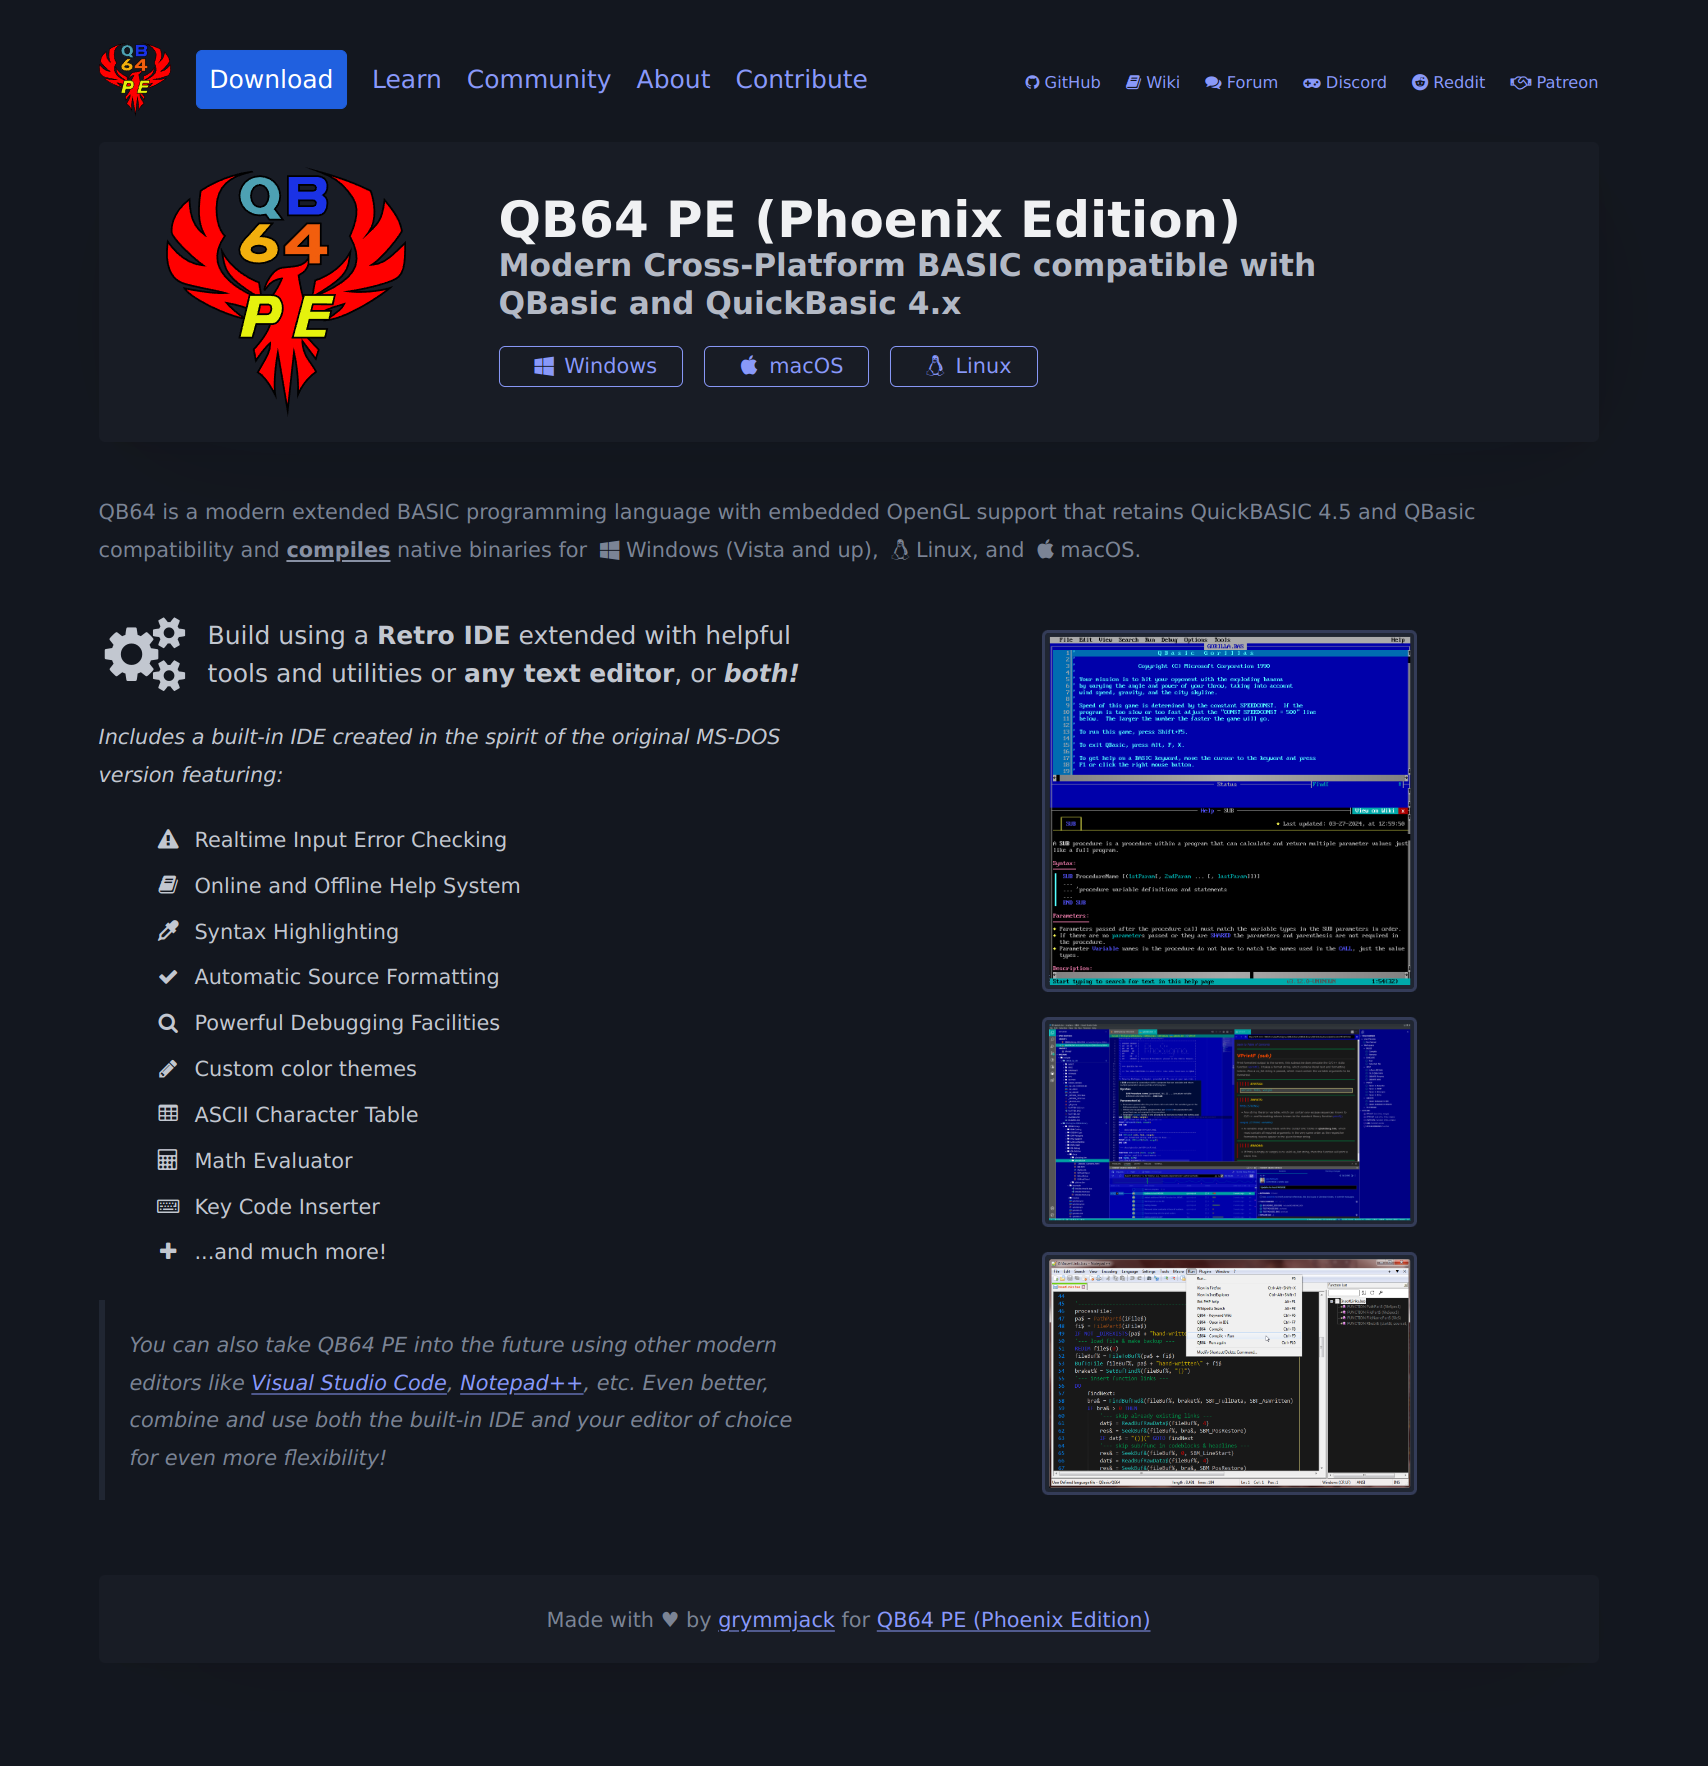
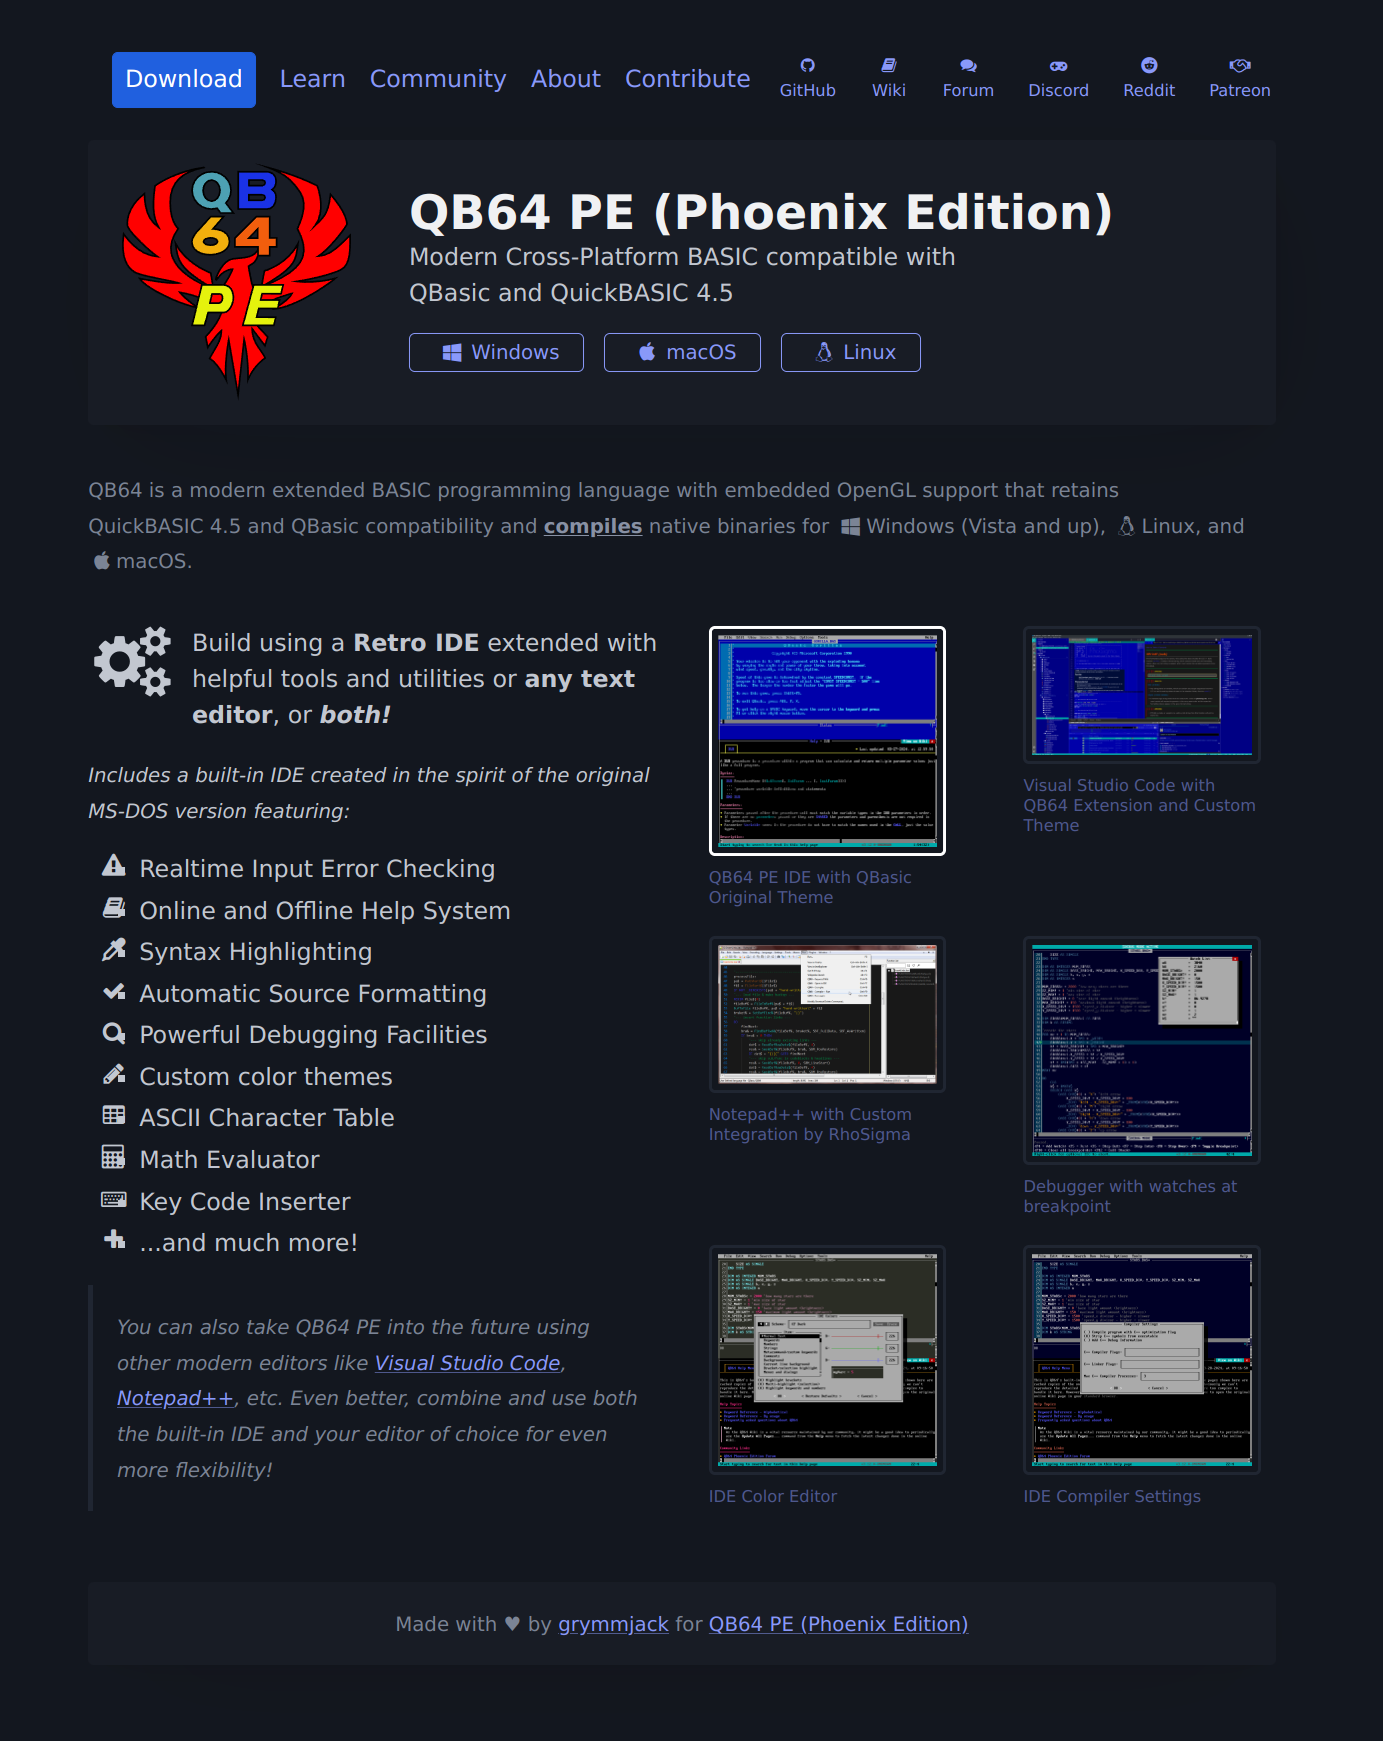
Refined and leveraged Pico CSS more - added more screenshots

diff --git a/index.html b/index.html
@@ -28,12 +28,12 @@
                     <li><a href="#">Contribute</a></li>
                 </ul>
                 <ul class="social">
-                    <li><a href="https://github.com/QB64-Phoenix-Edition/QB64pe" class="social-icon"><i class="fa fa-github" aria-hidden="true" title="GitHub"></i><span> GitHub</span></a></li>
-                    <li><a href="https://qb64phoenix.com/qb64wiki" class="social-icon"><i class="fa fa-book" aria-hidden="true" title="Wiki"></i><span> Wiki</span></a></li>
-                    <li><a href="https://qb64phoenix.com" class="social-icon"><i class="fa fa-comments" aria-hidden="true" title="Forum"></i><span> Forum</span></a></li>
-                    <li><a href="https://discord.gg/RxwYKeRA" class="social-icon"><i class="fa fa-gamepad" aria-hidden="true" title="Discord"></i><span> Discord</span></a></li>
-                    <li><a href="https://www.reddit.com/r/QB64pe/" class="social-icon"><i class="fa fa-reddit" aria-hidden="true" title="Reddit"></i><span> Reddit</span></a></li>
-                    <li><a href="https://www.patreon.com/user?u=86544769" class="social-icon"><i class="fa fa-handshake-o" aria-hidden="true" title="Patreon"></i><span> Patreon</span></a></li>
+                    <li><a href="https://github.com/QB64-Phoenix-Edition/QB64pe" class="social-icon"><i class="fa fa-github fa-fw" aria-hidden="true" title="GitHub"></i><span> GitHub</span></a></li>
+                    <li><a href="https://qb64phoenix.com/qb64wiki" class="social-icon"><i class="fa fa-book fa-fw" aria-hidden="true" title="Wiki"></i><span> Wiki</span></a></li>
+                    <li><a href="https://qb64phoenix.com" class="social-icon"><i class="fa fa-comments fa-fw" aria-hidden="true" title="Forum"></i><span> Forum</span></a></li>
+                    <li><a href="https://discord.gg/RxwYKeRA" class="social-icon"><i class="fa fa-gamepad fa-fw" aria-hidden="true" title="Discord"></i><span> Discord</span></a></li>
+                    <li><a href="https://www.reddit.com/r/QB64pe/" class="social-icon"><i class="fa fa-reddit fa-fw" aria-hidden="true" title="Reddit"></i><span> Reddit</span></a></li>
+                    <li><a href="https://www.patreon.com/user?u=86544769" class="social-icon"><i class="fa fa-handshake-o fa-fw" aria-hidden="true" title="Patreon"></i><span> Patreon</span></a></li>
                 </ul>
             </nav>
         </header>
@@ -46,10 +46,10 @@
                 <div class="col-sm-9">
                     <hgroup>
                         <h1>QB64 PE<br class="hide-mobile"> <span class="group">(Phoenix Edition)</span></h1>
-                        <h4>
+                        <p>
                             Modern Cross-Platform BASIC
-                            compatible with <span class="group">QBasic and QuickBasic 4.x</span>
-                        </h4>
+                            compatible with <span class="group">QBasic and QuickBASIC 4.5</span>
+                        </p>
                         <p class="small-vspace">
                             <a href="https://github.com/QB64-Phoenix-Edition/QB64pe/releases"><button class="outline small"><i class="fa fa-windows fa-fw" aria-hidden="true"></i> Windows</button></a>
                             <a href="https://github.com/QB64-Phoenix-Edition/QB64pe/releases"><button class="outline small"><i class="fa fa-apple fa-fw" aria-hidden="true"></i> macOS</button></a>
@@ -87,17 +87,17 @@
                         </em>
                     </small>
                 </p>
-                <ul class="icon-bullets">
-                    <li><i class="fa fa-exclamation-triangle fa-fw" aria-hidden="true"></i> Realtime Input Error Checking</li>
-                    <li><i class="fa fa-book fa-fw" aria-hidden="true"></i> Online and Offline Help System</li>
-                    <li><i class="fa fa-eyedropper fa-fw" aria-hidden="true"></i> Syntax Highlighting</li>
-                    <li><i class="fa fa-check fa-fw" aria-hidden="true"></i> Automatic Source Formatting</li>
-                    <li><i class="fa fa-search fa-fw" aria-hidden="true"></i> Powerful Debugging Facilities</li>
-                    <li><i class="fa fa-pencil fa-fw" aria-hidden="true"></i> Custom color themes</li>
-                    <li><i class="fa fa-table fa-fw" aria-hidden="true"></i> ASCII Character Table</li>
-                    <li><i class="fa fa-calculator fa-fw" aria-hidden="true"></i> Math Evaluator</li>
-                    <li><i class="fa fa-keyboard-o fa-fw" aria-hidden="true"></i> Key Code Inserter</li>
-                    <li><i class="fa fa-plus fa-fw" aria-hidden="true"></i> ...and much more!</li>
+                <ul class="fa-ul">
+                    <li><i class="fa fa-li fa-exclamation-triangle fa-fw" aria-hidden="true"></i> Realtime Input Error Checking</li>
+                    <li><i class="fa fa-li fa-book fa-fw" aria-hidden="true"></i> Online and Offline Help System</li>
+                    <li><i class="fa fa-li fa-eyedropper fa-fw" aria-hidden="true"></i> Syntax Highlighting</li>
+                    <li><i class="fa fa-li fa-check fa-fw" aria-hidden="true"></i> Automatic Source Formatting</li>
+                    <li><i class="fa fa-li fa-search fa-fw" aria-hidden="true"></i> Powerful Debugging Facilities</li>
+                    <li><i class="fa fa-li fa-pencil fa-fw" aria-hidden="true"></i> Custom color themes</li>
+                    <li><i class="fa fa-li fa-table fa-fw" aria-hidden="true"></i> ASCII Character Table</li>
+                    <li><i class="fa fa-li fa-calculator fa-fw" aria-hidden="true"></i> Math Evaluator</li>
+                    <li><i class="fa fa-li fa-keyboard-o fa-fw" aria-hidden="true"></i> Key Code Inserter</li>
+                    <li><i class="fa fa-li fa-plus fa-fw" aria-hidden="true"></i> ...and much more!</li>
                 </ul>
                 <blockquote class="clean">
                     <small>
@@ -110,10 +110,31 @@
                     </small>
                 </blockquote>
             </div>
-            <div class="screenshots">
-                <a href="images/screenshot-ide.png"><img alt="QB64 PE IDE" src="images/screenshot-ide.png"></a>
-                <a href="images/screenshot-vscode.png"><img alt="Visual Studio Code with QB64 Extension" src="images/screenshot-vscode.png"></a>
-                <a href="images/screenshot-notepad++.png"><img alt="Notepad++ with Customization by RhoSigma" src="images/screenshot-notepad++.png"></a>
+            <div id="screenshots" class="row around-xs center">
+                <figure>
+                    <a href="images/screenshot-ide.png"><img alt="QB64 PE IDE" src="images/screenshot-ide.png"></a>
+                    <figcaption>QB64 PE IDE with QBasic Original Theme</figcaption>
+                </figure>
+                <figure>
+                    <a href="images/screenshot-vscode.png"><img alt="Visual Studio Code with QB64 Extension" src="images/screenshot-vscode.png"></a>
+                    <figcaption>Visual Studio Code with QB64 Extension and Custom Theme</figcaption>
+                </figure>
+                <figure>
+                    <a href="images/screenshot-notepad++.png"><img alt="Notepad++ with Customization by RhoSigma" src="images/screenshot-notepad++.png"></a>
+                    <figcaption>Notepad++ with Custom Integration by RhoSigma</figcaption>
+                </figure>
+                <figure>
+                    <a href="images/screenshot-ide-debugger.png"><img alt="Debugger with watches at breakpoint" src="images/screenshot-ide-debugger.png"></a>
+                    <figcaption>Debugger with watches at breakpoint</figcaption>
+                </figure>
+                <figure>
+                    <a href="images/screenshot-ide-colors.png"><img alt="IDE Color Editor" src="images/screenshot-ide-colors.png"></a>
+                    <figcaption>IDE Color Editor</figcaption>
+                </figure>
+                <figure>
+                    <a href="images/screenshot-ide-compiler-settings.png"><img alt="IDE Compiler Settings" src="images/screenshot-ide-compiler-settings.png"></a>
+                    <figcaption>IDE Compiler Settings</figcaption>
+                </figure>
             </div>
         </div>
 

diff --git a/css/global.css b/css/global.css
@@ -1,3 +1,10 @@
+@charset "UTF-8";
+/* variables */
+:root {
+    --hero-image-height: 10rem;
+    --screenshot-width: 8rem;
+}
+
 @media screen and (max-width: 1000px) {
     ul.social li a span {
         display: none;
@@ -64,8 +71,7 @@ button.small {
 }
 
 #hero img {
-    height: 10rem;
-    /* margin: 0 1rem; */
+    height: var(--hero-image-height);
 }
 
 #hero hgroup {
@@ -76,20 +82,13 @@ footer {
     color: var(--pico-muted-color);
 }
 
-ul.icon-bullets li {
-    padding: 0;
-    margin: 0;
-    list-style: none;
-    font-size: smaller;
-}
-
-ul.icon-bullets li i {
-    margin: 0.5rem 0.25rem;
-}
-
 ul.social li a {
     font-size: small;
     text-align: center;
+}
+
+ul.social li a:hover {
+    text-decoration: none;
 }
 
 section {
@@ -104,25 +103,31 @@ div.screenshots {
     text-align: center;
 }
 
-div.screenshots img {
-    display: inline-block;
-    padding: 0.15rem;
-    background: var(--pico-muted-border-color);
-    width: 15rem;
-    margin: 0.5rem 1rem;
+#screenshots figure {
+    width: calc(var(--screenshot-width) + (var(--pico-spacing)*2));
 }
 
-div.screenshots a:link img, 
-div.screenshots a:visited img {
-    border: 3px solid;
-    border-radius: 0.25rem;
-    border-color: var(--pico-text-selection-color);
+#screenshots figcaption {
+    color: var(--pico-primary-underline);
+    font-size: small;
+    text-align: left;
+    line-height: 0.85rem
 }
 
-div.screenshots a:hover img {
-    border: 3px solid;
-    border-radius: 0.25rem;
-    border-color: var(--pico-contrast-hover-border);
+#screenshots figure img {
+    padding: calc(var(--pico-spacing) / 4);
+    border-radius: var(--pico-border-radius);
+    border: 3px solid var(--pico-muted-border-color);
+}
+
+#screenshots figure a:link img, 
+#screenshots figure a:visited img {
+    border-color: var(--pico-muted-border-color);
+}
+
+#screenshots figure a:hover img, 
+#screenshots figure a:active img {
+    border: 3px solid var(--pico-contrast-hover-border);
 }
 
 blockquote.clean {
@@ -189,6 +194,9 @@ p i.fa {
 }
 .center {
     text-align: center;
+}
+.left {
+    text-align: left;
 }
 .right {
     text-align: right;
